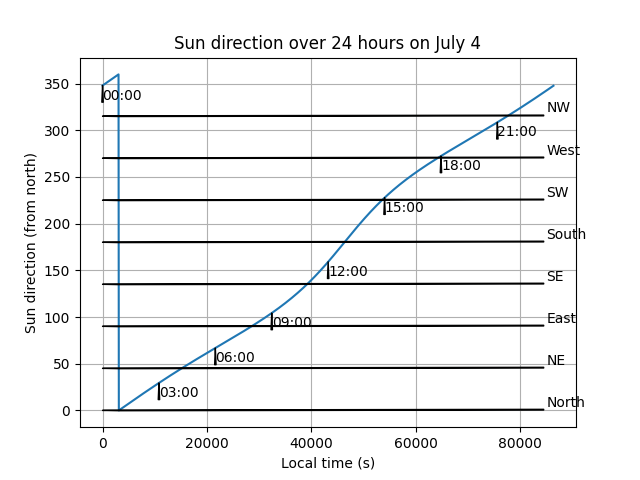
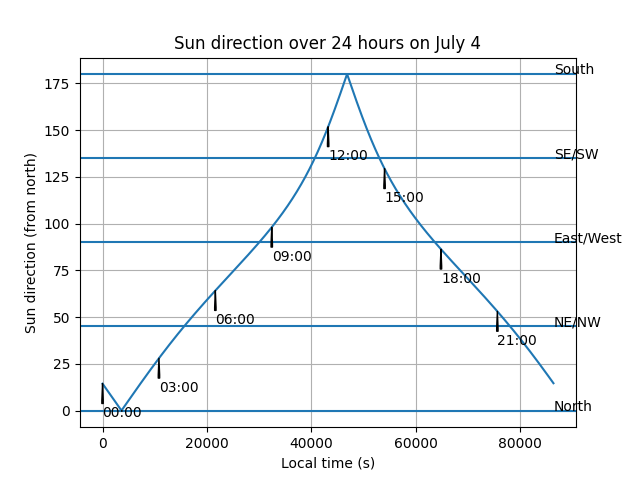
graohics integrative drawing annotation

diff --git a/plot.py b/plot.py
@@ -5,11 +5,73 @@ from temporal import Date, Time
 import numpy as np
 import matplotlib.pyplot as plt
 
-plotfile = "static/db/plot.txt"
 heightTime = "static/Image/heightTime.png"
 directionTime = "static/Image/directionTime.png"
 heightDate = "static/Image/heightDate.png"
 directionDate = "static/Image/directionDate.png"     
+labels = ["","Sun height angle (degree)","Sun direction (from north)","Local time (s)","Date (days from January 1)"]
+heightAnno = [(0, "Sunrise/set"), (-6, "Civil twl."), (-12, "Naut. twl."), (-18, "Astr. twl.")]
+directionAnno1 = [(0, "North"), (45, "NE/NW"), (90, "East/West"), (135, "SE/SW"), (180, "South")]
+directionAnno2 = [(0, "North"), (90, "East"), (180, "South"), (270, "West")]
+dateAnno = [(1,"Jan"),(32,"Feb"),(60,"March"),(91,"April"),(121,"May"),(152,"June"),(182,"July"),(213,"Aug"),
+                (244,"Sep"),(274,"Oct"),(305,"Nov"),(335,"Dec")]
+vertAnno = [(80,"Spring Eq."),(173,"Summer So."),(266,"Autumn Eq."),(356,"Winter So.")]
+
+
+def drawPlot(xs, ys, t, xl, yl):
+    plt.title(t)
+    plt.xlabel(labels[xl])
+    plt.ylabel(labels[yl])
+    plt.plot(xs,ys)
+    plt.grid()
+    gfile = ""
+
+    lx = min(xs)
+    ly = min(ys)
+    ux = max(xs)
+    uy = max(ys)
+    if yl == 1:
+        gfile = heightDate
+        if xl == 3:
+            gfile = heightTime
+        for (d,t) in heightAnno:
+            if d <= uy+5 and d >= ly-5:
+                plt.axhline(d)
+                plt.annotate(t, (ux, d))
+    elif yl == 2 and xl == 3:
+        gfile = directionTime
+        for (d, t) in directionAnno1:
+            plt.axhline(d)
+            plt.annotate(t, (86400, d))
+    elif yl in [7,8]:
+        if xl == 4:
+            return
+        elif xl == 9:
+            return
+
+    if xl == 3:
+        for i in range(0, 1440, 180):
+            plt.annotate(util.secondsToTime(xs[i]).show(), (xs[i], ys[i]),xytext=(xs[i], ys[i]-(uy-ly)/10), arrowprops={"headwidth": 1, "width":1})
+    elif xl == 4:
+        for (d,t) in dateAnno:
+            plt.annotate(t, (d, ys[d-1]),xytext=(d, ys[d-1]-(uy-ly)/20), arrowprops={"headwidth": 1, "width":0.5})
+        for (d,t) in vertAnno:
+            plt.axvline(d)
+            plt.annotate(t,(d,ly-(uy-ly)/20))
+    elif yl == 4:
+        gfile = directionDate
+        for (d,t) in directionAnno2:
+            if d >= lx and d <= ux:
+                plt.axvline(d)
+                plt.annotate(t,(d,-10))
+        for (d,t) in dateAnno:
+            plt.annotate(t, (xs[d-1], d), (xs[d-1]-(ux-lx)/20,d+3), arrowprops={"headwidth": 1, "width":0.5})
+        for (d,t) in vertAnno:
+            plt.axhline(d)
+            plt.annotate(t,(ux,d))
+
+    plt.savefig(gfile)
+    plt.clf()
 
 class Plot:
     def __init__(self, queries, fields):
@@ -22,7 +84,7 @@ class Plot:
         self.args = args
         self.iv = iv
 
-    def drawPlot(self):
+    def draw(self):
         if 2 in self.queries:
             lat = util.toRad(self.args[0])
             noon = model.noonSecs(self.args[2], self.args[1])
@@ -35,61 +97,29 @@ class Plot:
                     for i in range(len(locTime)):
                         ang, ht = sp.sungeom(sinlat0, lat, [noon, locTime[i]])
                         heights[i] = util.toDeg(ht) 
-                        directions[i] = util.toDeg(ang) 
-                    plt.title("Sun height over 24 hours "+"on "+self.args[3].show())
-                    plt.xlabel("Local time (s)")
-                    plt.ylabel("Sun height angle (degree)")
-                    plt.plot(locTime, heights)
-                    plt.grid()
-                    for i in range(0, 1440, 180):
-                        plt.annotate(util.secondsToTime(locTime[i]).show(), (locTime[i], heights[i]),
-                                     xytext=(locTime[i], heights[i]-5), arrowprops={"headwidth": 1, "width":1})
-                    plt.annotate("Horizon", (0,0), (85000,1), arrowprops={"width": 0.5, "headwidth": 0.5})
-                    plt.savefig(heightTime)
-                    plt.clf()
+                        directions[i] = util.direcctionHalf(ang) 
+                    drawPlot(locTime, heights, "Sun height over 24 hours "+"on "+self.args[3].show(),3,1)
                 else:
                     for i in range(len(locTime)):
-                        directions[i] = util.toDeg(sp.sungeom(sinlat0, lat, [noon, locTime[i]])[0]) 
-                plt.title("Sun direction over 24 hours "+"on "+self.args[3].show())
-                plt.xlabel("Local time (s)")
-                plt.ylabel("Sun direction (from north)")
-                plt.plot(locTime, directions)
-                plt.grid()
-                for i in range(0, 1440, 180):
-                    plt.annotate(util.secondsToTime(locTime[i]).show(),(locTime[i], directions[i]), 
-                                 xytext=(locTime[i], directions[i]-15), arrowprops={"headwidth": 1})
-                for (d, t) in [(0, "North"), (45, "NE"), (90, "East"), (135, "SE"), (180, "South"), (225, "SW"), (270, "West"), (315, "NW")]:
-                    plt.annotate(t, (0, d), xytext=(85000, d+4), arrowprops={"width": 0.5, "headwidth": 0.5})
-
-                plt.savefig(directionTime)
+                        directions[i] = util.direcctionHalf(sp.sungeom(sinlat0, lat, [noon, locTime[i]])[0]) 
+                drawPlot(locTime, directions, "Sun direction over 24 hours "+"on "+self.args[3].show(),3,2)
             if self.iv == 4:
                 noonshift = [noon, self.args[3].toSecs()]
                 dates = np.array([d for d in range(1, 366, 1)])
                 directions = np.zeros(len(dates))
                 if len(self.queries) == 2:
                     heights = np.zeros(len(dates))
-                    plt.title("Sun height at "+self.args[3].show()+" every day of the year")
-                    plt.xlabel("Date (days from January 1)")
-                    plt.ylabel("Sun height angle (degree)")
                     for d in dates:
                         sinlat0 = model.sunDirectLatSin(util.daysToDate(d)) 
                         ang, ht = sp.sungeom(sinlat0, lat, noonshift)
                         directions[d-1] = util.toDeg(ang) 
                         heights[d-1] = util.toDeg(ht)
-                    plt.plot(dates, heights)
-                    plt.grid()
-                    plt.savefig(heightDate)
-                    plt.clf()
+                    drawPlot(dates,heights,"Sun height at "+self.args[3].show()+" every day of the year",4,1)
                 else:
                     for d in range(1, 366, 1):
                         sinlat0 = model.sunDirectLatSin(util.daysToDate(d)) 
                         directions[d-1] = util.toDeg(sp.sungeom(sinlat0, lat, noonshift)[0]) 
-                plt.title("Sun direction at "+self.args[3].show()+" every day of the year")
-                plt.xlabel("Date (days from January 1)")
-                plt.ylabel("Sun direction (from north)")
-                plt.plot(dates, directions)
-                plt.grid()
-                plt.savefig(directionDate)
+                drawPlot(directions,dates,"Sun direction at "+self.args[3].show()+" every day of the year",2,4)
         
     def show(self):
         print("plot")
@@ -105,6 +135,7 @@ class Plot:
         return res
     
 p = Plot([1,2], ["Time zone--GMT", "Sun height angle", "Sun direction angle", "Local time","Date", "Longitude", "Latitude", "Sunrise time", "Sunset time", "Altitude of observation", "","Solar noon"])
-p.loadMap([35, 120, 8, Time(15,35,0,0)], 4)
+# p.loadMap([51, -0.1, 1, Date(7,4)], 3)
+p.loadMap([51, -0.1, 1, Time(12,35,0,0)], 4)
 print(p.show())
-print(p.drawPlot())
+print(p.draw())

diff --git a/util.py b/util.py
@@ -162,3 +162,9 @@ def directionClass(ang, rg):
         return "West"
     if ang >= 270+rg and ang <= 360-rg:
         return "Northwest"
+    
+def direcctionHalf(rad):
+    if rad <= np.pi:
+        return toDeg(rad)
+    return toDeg(2*np.pi - rad)
+
